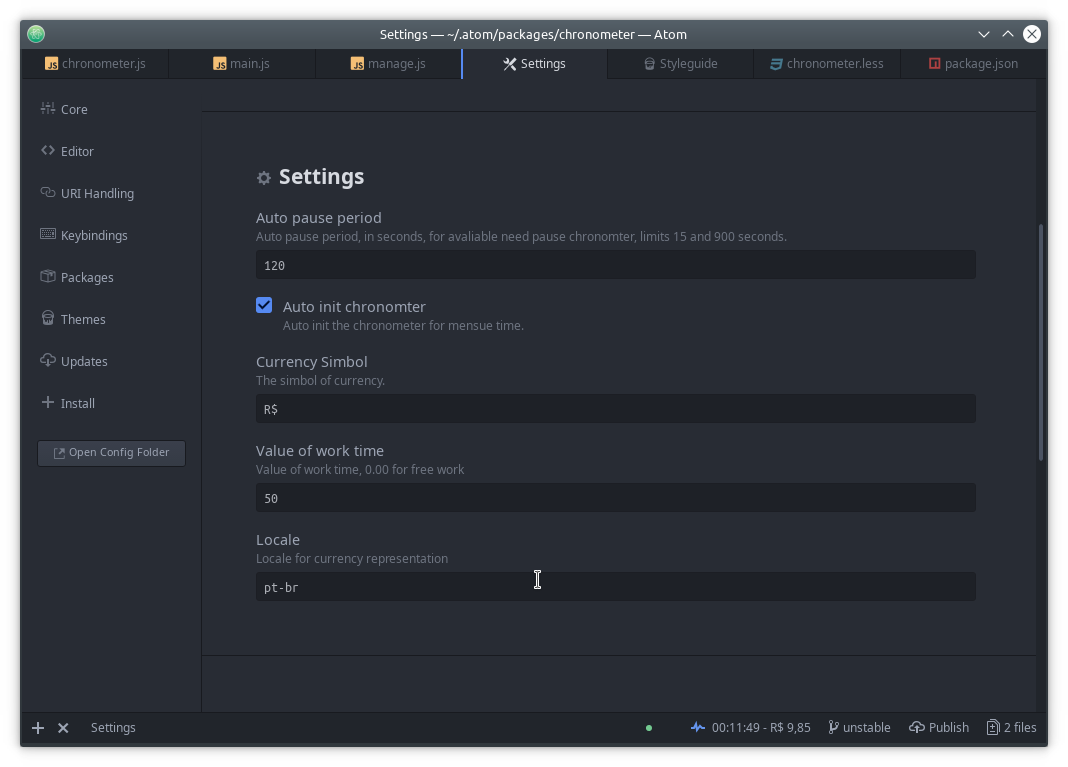
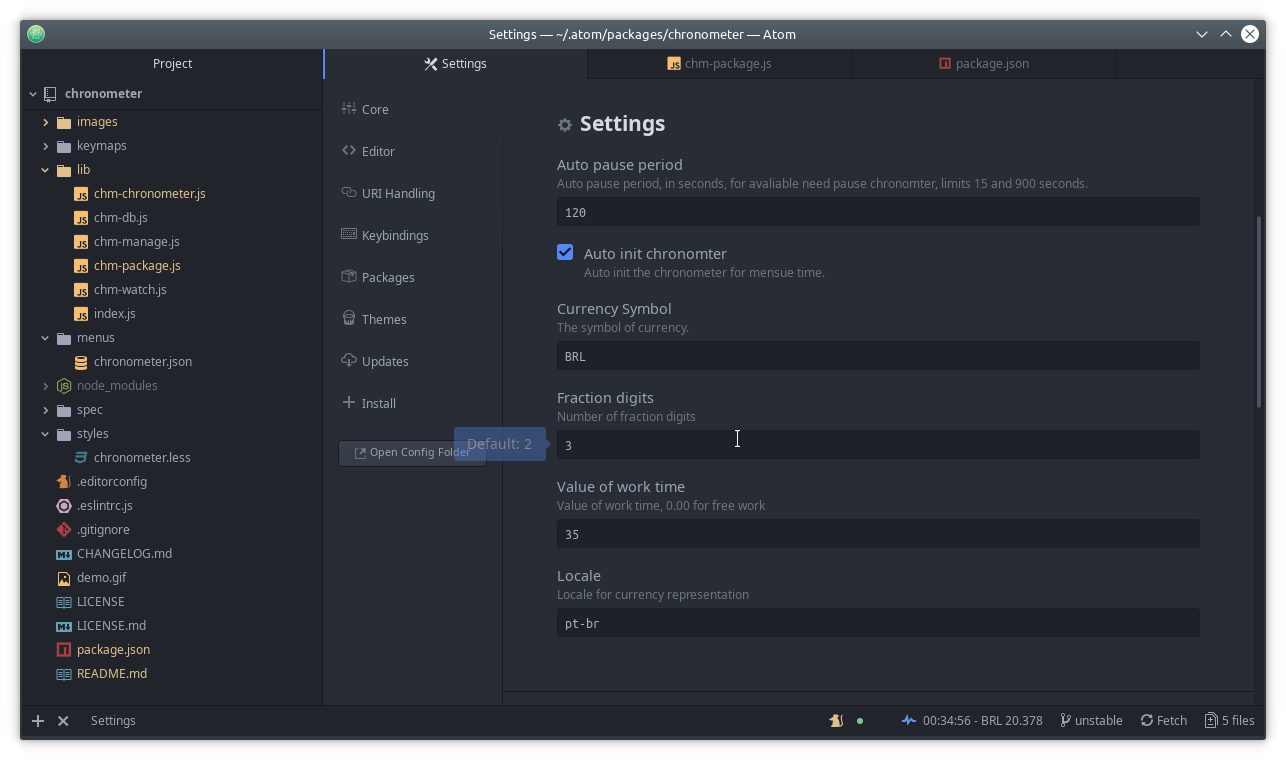
fix refactory

diff --git a/lib/chm-package.js b/lib/chm-package.js
@@ -52,8 +52,8 @@ export default class ChronometerPackage {
       this.chronometerView.hourValue = this.config('hourValue', 10, Number.parseFloat);
     });
 
-    atom.config.observe('chronometer.currencySymnbol', () => {
-      this.chronometerView.currencySymnbol = this.config('currencySymnbol', 'USD');
+    atom.config.observe('chronometer.currencySymbol', () => {
+      this.chronometerView.currencySymbol = this.config('currencySymbol', 'USD');
     });
 
     atom.config.observe('chronometer.fractionDigits', () => {
@@ -95,7 +95,7 @@ export default class ChronometerPackage {
           if (this.chronometerView) {
             this.chronometerView.locale = this.config('locale', 'en-us');
             this.chronometerView.hourValue = this.config('hourValue', 10, Number.parseFloat);
-            this.chronometerView.currencySymnbol = this.config('currencySymnbol', 'USD');
+            this.chronometerView.currencySymbol = this.config('currencySymbol', 'USD');
             this.chronometerView.fractionDigits = this.config('fractionDigits', 2, Number.parseInt);
           } else {
             console.log('chronometer is not read');
@@ -146,7 +146,7 @@ export default class ChronometerPackage {
     this.chronometerView.init(
       this.config('locale', 'en-us'),
       this.config('hourValue', 10, Number.parseFloat),
-      this.config('currencySymnbol', 'USD'),
+      this.config('currencySymbol', 'USD'),
       this.config('fractionDigits', 2, Number.parseInt)
     );
 

diff --git a/lib/chm-chronometer.js b/lib/chm-chronometer.js
@@ -48,12 +48,12 @@ export default class Chronometer {
     this._hourValue = Number.parseFloat(value);
   }
 
-  get currencySymnbol() {
-    return this._currencySymnbol;
+  get currencySymbol() {
+    return this._currencySymbol;
   }
 
-  set currencySymnbol(value) {
-    this._currencySymnbol = value;
+  set currencySymbol(value) {
+    this._currencySymbol = value;
   }
 
   destroy() {
@@ -105,7 +105,7 @@ export default class Chronometer {
       useGrouping: true
     });
 
-    return `${timerValue} - ${this.currencySymnbol} ${formatedValue}`;
+    return `${timerValue} - ${this.currencySymbol} ${formatedValue}`;
   }
 
   get display() {
@@ -133,9 +133,9 @@ export default class Chronometer {
     return this.__icon;
   }
 
-  init(locale, hourValue, currencySymnbol, fractionDigits) {
+  init(locale, hourValue, currencySymbol, fractionDigits) {
     this.locale = (locale || 'en-us');
-    this.currencySymnbol = currencySymnbol || 'USD';
+    this.currencySymbol = currencySymbol || 'USD';
     this.hourValue = Number.parseFloat(hourValue || 0);
     this.fractionDigits = Number.parseFloat(fractionDigits || 0);
 

diff --git a/README.md b/README.md
@@ -17,7 +17,7 @@ The chronometer still has several settings such as the possibility to inform the
 In addition to the global settings, in each project we can also have a <code> .chronometer.json</code> configuration file where we can make private definitions for the project in question, see:
 
 <pre><code class="json">{
-  "currencySymnbol": "BTC",
+  "currencySymbol": "BTC",
   "hourValue": 0.0012,
   "locale": "en-us",
   "fractionDigits": 6
